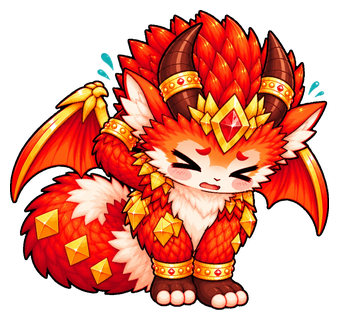
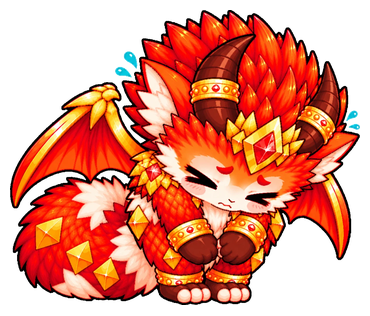
MawKorn: 06 Sorry v4 approved
Claude-Session: https://claude.ai/code/session_01CqN5TM8CtnKZx6KMXb1z93

diff --git a/mangkorn/PLAN.md b/mangkorn/PLAN.md
@@ -24,7 +24,7 @@ New chat? Read this whole file first, then continue from **Status**.
 - 03 OK: v1 repeated the Hello pose (rejected); v2 has the sign with a red O → `mangkorn/stickers/03-ok.png` (326×320). **Approved.**
 - 04 No: v1 (grumpy face and crossed arm accepted). X was red; recoloured **blue** in code → `stickers/04-no.png` (344×320). **Approved.** Red version kept in `incoming/04-no-v1-red-x-clean.png`.
 - 05 Thank you: v3 = Chinese formal bow (front view, head bowed into joined paws, elbows out, no hearts) → `stickers/05-thank-you.png` (334×320). **Approved.** Older: v1 sitting (`incoming/05-thank-you-v1-sitting-clean.png`), v2 paws at chest (`incoming/05-thank-you-v2-clean.png`).
-- 06 Sorry: v1 (deep bow) looked asleep (`incoming/06-sorry-v1-looks-asleep.png`, could suit 15 Tired). v2 (paws together) looked like Please (`incoming/06-sorry-v2-clean.png`, candidate for 07 Please). User chose **hide behind wing**; v3 instead drew paw-behind-head with eyes squeezed (><) and sweat drops → `stickers/06-sorry.png` (340×320). Waiting for the user.
+- 06 Sorry: v4 = head down, eyes squeezed (><), paws together low, sweat drops → `stickers/06-sorry.png` (370×316). **Approved.** (The small white wiggle lines by the tail were removed by the cleanup.) Older versions in `incoming/06-*`. v2 (`incoming/06-sorry-v2-clean.png`) is a candidate for 07 Please.
 - Tool update: stricter green removal + lime-yellow pocket removal; 01–03 re-processed with it.
 
 ## Rules from the user (follow every time)
